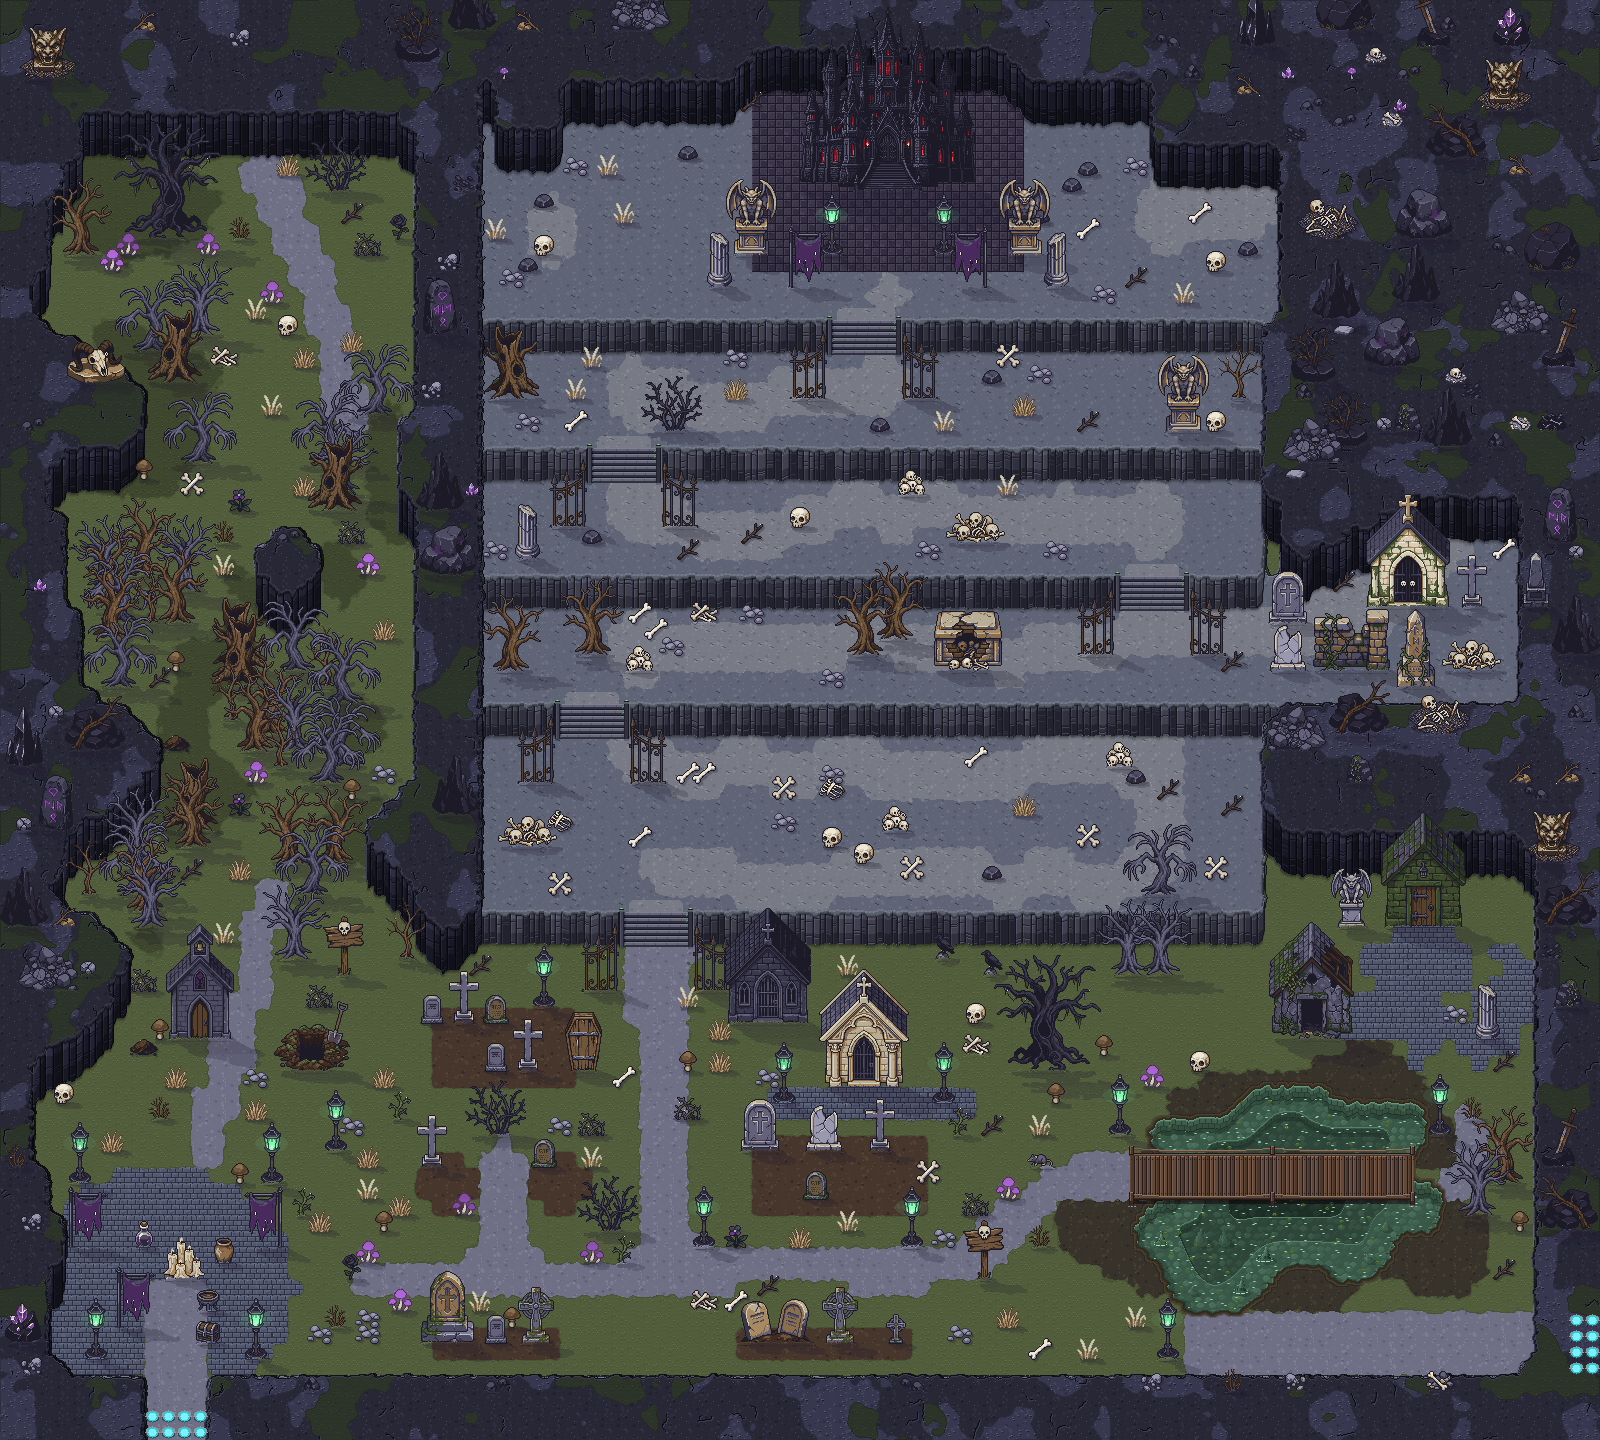
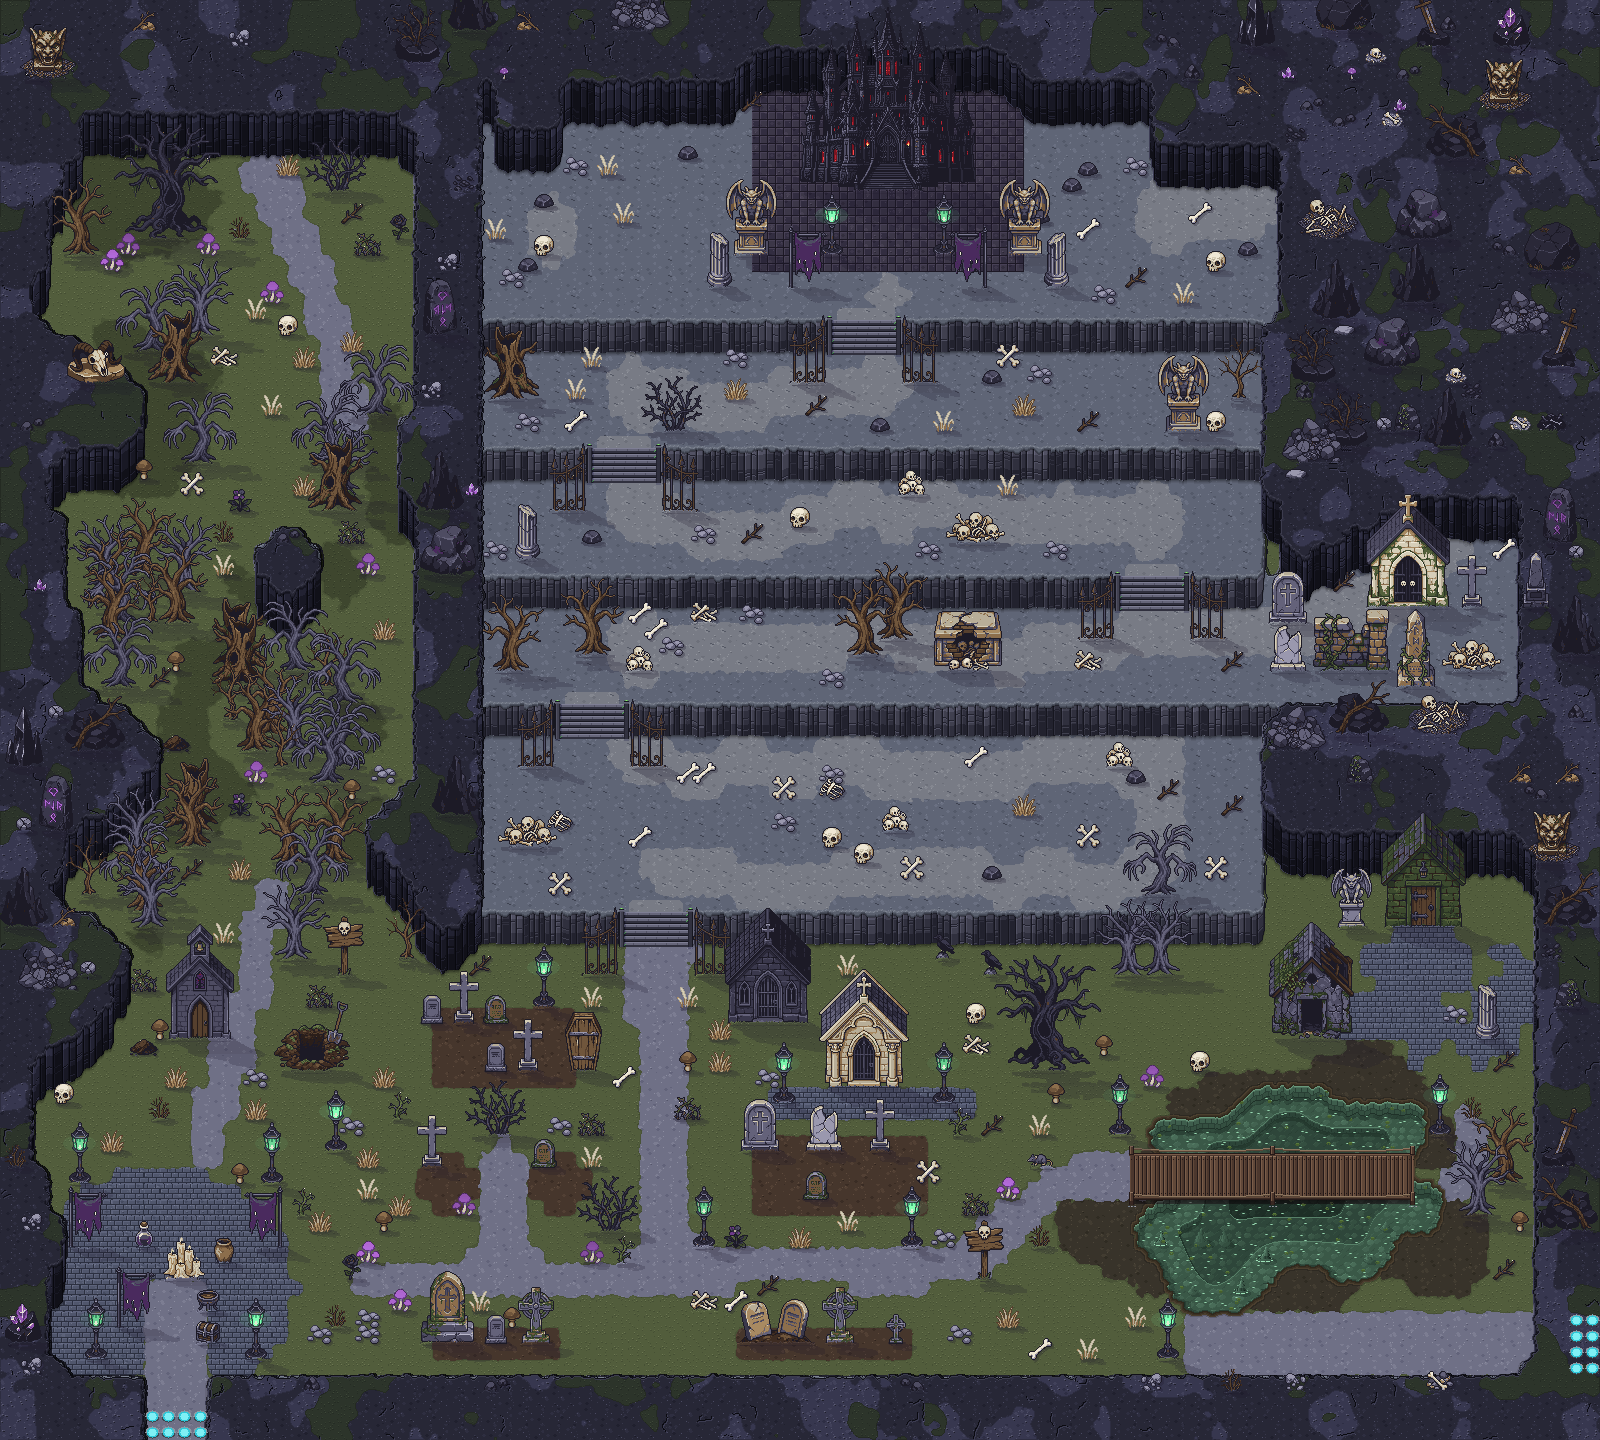
Karte 08: Torfluegel eine Kachel hoeher; neue Regeln (Gebaeude mit Dach, Tore an Treppen, symmetrische Plaetze)
Claude-Session: https://claude.ai/code/session_01SaoYHKhnro4LFcPJqjaPsq

diff --git a/tools/karte08_objekte.py b/tools/karte08_objekte.py
@@ -227,7 +227,7 @@ def main():
         teil.save(os.path.join(OBJ, 'sauber/gitter-%s.png' % seite))
         alpha['sauber/gitter-%s.png' % seite] = np.array(teil.getchannel('A')) >= 128
     for (px0, px1, ye, f, e) in json.load(open(os.path.join(KARTE, 'treppen_px.json'))):
-        reihe = (ye + f + 2) // T + 2                             # zwei volle Reihen unter dem Treppenfuss
+        reihe = (ye + f + 2) // T + 1                             # Nutzerwunsch: eine Reihe unter dem Treppenfuss
         for seite in ('l', 'r'):
             datei = 'sauber/gitter-%s.png' % seite
             a_ = alpha[datei]
@@ -237,7 +237,7 @@ def main():
             x = bx * T + (wt * T - w_) // 2
             zu = int(np.nonzero(a_.any(axis=1))[0].max())
             y = (reihe + 1) * T - 1 - zu
-            if not bewerten(lvl, a_, x, y) or not frei_px(datei, x, y):
+            if not frei_px(datei, x, y):                          # Wandregel bewusst gelockert (Nutzerwunsch)
                 print('  Torfluegel passt nicht:', seite, (bx, reihe))
                 continue
             o = {'datei': datei, 'basis': 'gitter/' + seite, 'x': x, 'y': y, 'fuss': h_,

diff --git a/CLAUDE.md b/CLAUDE.md
@@ -99,4 +99,10 @@ Wenn eine Karte fertig scheint: noch einmal komplett auf **Pixelfehler** und **L
 - **Maschinen-Animation:** Laufende Maschinen: Rauch steigt genau aus den Rohröffnungen (in Windrichtung treibend),
   Lampen/Anzeigen pulsieren, das Gehäuse rüttelt leicht (1 px) – Füße und Kabel am Boden bleiben fest. Bei
   gespiegelten Objekten werden die Animationspunkte mitgespiegelt.
+- **Gebäude mit Dach:** Häuser, Krypten, Kapellen u. Ä. nie flach als reine Fassade – Dachflächen und First von
+  leicht oben sichtbar (wie die Häuser auf Karte 06).
+- **Tore an Treppen:** Zweiflügelige Tore/Gitter werden geteilt: je ein Flügel links und rechts am Fuß der Treppe,
+  eine Kachel unter dem Treppenfuß, der obere Teil ragt vor die Klippe, auf der die Treppe liegt.
+- **Symmetrische Plätze:** Paare auf einem Platz vor einem Bauwerk (Statuen, Banner, Laternen, Säulen) stehen exakt
+  spiegelsymmetrisch zur Achse des Bauwerks.
 - **Ablauf:** Jede Änderung committen und pushen, Bilder/GIFs an den Nutzer schicken, auf Deutsch erklären.
